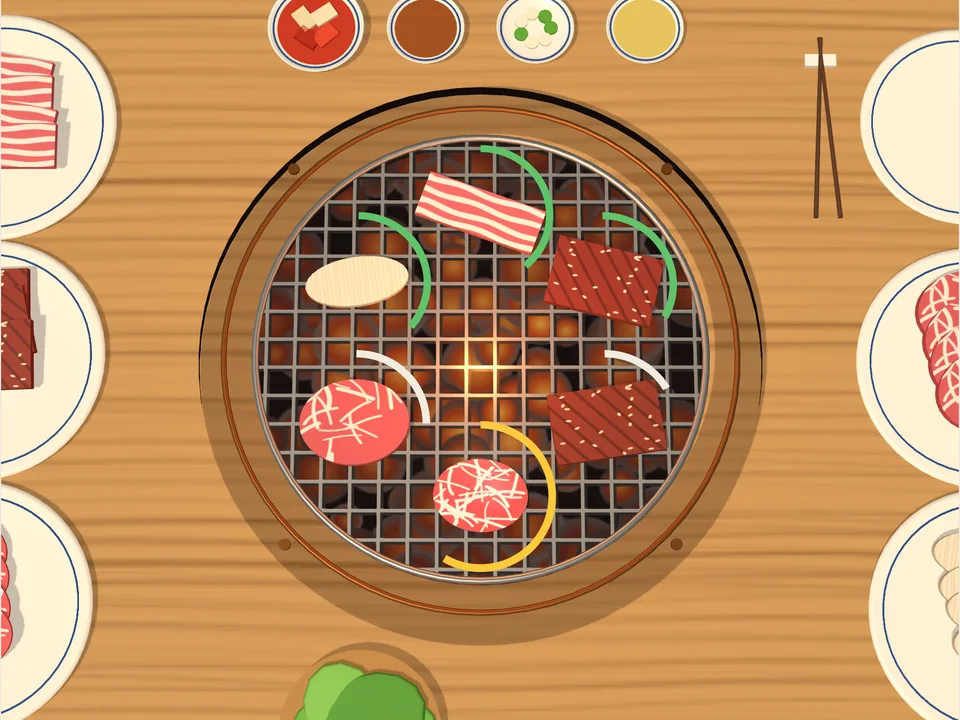
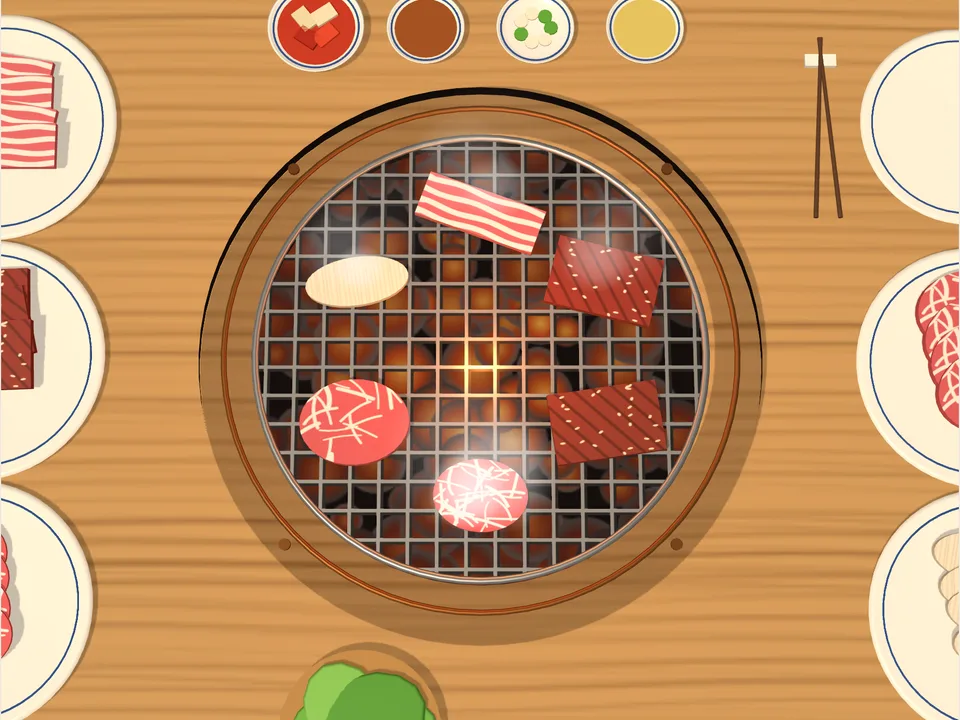
Meat grill: no gauge; smoke and colour tell how done a piece is; burnt pieces blackened
Claude-Session: https://claude.ai/code/session_01Uedx1uYtd54DPXXtQh77nN

diff --git a/src/games/grill/view.ts b/src/games/grill/view.ts
@@ -28,8 +28,7 @@ const SHAPES = [
 const PLACE = 300,
   PLATE = 400;
 /** How finely a side's colour follows its cooking. */
-const SHADES = 14,
-  ARCS = 36;
+const SHADES = 14;
 type Rgb = [number, number, number];
 const mix = (a: Rgb, b: Rgb, t: number): Rgb => [0, 1, 2].map((i) => Math.round(a[i] + (b[i] - a[i]) * Math.max(0, Math.min(1, t)))) as Rgb,
   css = ([r, g, b]: Rgb, alpha = 1) => `rgba(${r},${g},${b},${alpha})`,
@@ -142,9 +141,6 @@ export class GrillView extends TableView<State> {
   private skins = new Map<number, T.CanvasTexture>();
   private pieces: Model[] = [];
   private stock: T.Mesh[][] = [];
-  private gauges: T.Mesh[] = [];
-  private arcs: T.BufferGeometry[] = [];
-  private zones: T.MeshBasicMaterial[];
   private puffs: T.Mesh[] = [];
   private coals!: T.MeshBasicMaterial;
   private ember!: T.PointLight;
@@ -202,26 +198,19 @@ export class GrillView extends TableView<State> {
         }),
       );
     });
-    // A ring under each piece that fills as the side lying down cooks.
-    for (let k = 0; k <= ARCS; k++) this.arcs.push(this.own(new T.RingGeometry(0.8, 0.89, 44, 1, Math.PI / 2, -Math.max(0.001, (k / ARCS) * Math.PI * 2)).rotateX(-Math.PI / 2)));
-    this.zones = ["#f2ece0", "#5fc46a", "#ffc93a", "#ff8a2a", "#ff3b2e"].map((color) => this.own(new T.MeshBasicMaterial({ color, side: T.DoubleSide })));
     const smoke = document.createElement("canvas");
     smoke.width = smoke.height = 64;
     const pen = smoke.getContext("2d")!,
       fade = pen.createRadialGradient(32, 32, 2, 32, 32, 32);
-    fade.addColorStop(0, "rgba(255,255,255,0.9)");
+    fade.addColorStop(0, "rgba(255,255,255,1)");
+    fade.addColorStop(0.55, "rgba(255,255,255,0.7)");
     fade.addColorStop(1, "rgba(255,255,255,0)");
     pen.fillStyle = fade;
     pen.fillRect(0, 0, 64, 64);
     const haze = this.own(new T.CanvasTexture(smoke)),
       sheet = this.own(new T.PlaneGeometry(1, 1).rotateX(-Math.PI / 2));
     for (let slot = 0; slot < SLOTS; slot++) {
-      const gauge = new T.Mesh(this.arcs[0], this.zones[0]);
-      gauge.position.set(PLACES[slot][0], TOP + 0.03, PLACES[slot][1]);
-      gauge.visible = false;
-      this.gauges.push(gauge);
-      this.scene.add(gauge);
-      for (let k = 0; k < 2; k++) {
+      for (let k = 0; k < 3; k++) {
         const puff = new T.Mesh(sheet, this.own(new T.MeshBasicMaterial({ map: haze, transparent: true, depthWrite: false, opacity: 0 })));
         puff.visible = false;
         puff.renderOrder = 6;
@@ -490,15 +479,17 @@ export class GrillView extends TableView<State> {
     this.redraw();
   }
   /** Shows a model as a piece of a cut with its two sides done so far. */
-  private dress(model: Model, piece: Pick<Piece, "cut" | "done">) {
+  private dress(model: Model, piece: Pick<Piece, "cut" | "done"> & { burnt?: boolean }) {
+    // A burnt piece is blackened all over, whichever side lay down.
+    const done = piece.burnt ? piece.done.map((side) => Math.max(side, CHARRED + 0.15)) : piece.done;
     const shape = SHAPES[piece.cut],
       mesh = shape.round ? model.slice : model.slab;
     model.slab.visible = !shape.round;
     model.slice.visible = shape.round;
     mesh.scale.set(shape.w, shape.tall, shape.d);
-    model.under.map = this.skin(piece.cut, piece.done[0]);
-    model.upper.map = this.skin(piece.cut, piece.done[1]);
-    model.edge.color.set(css(cooked(...FLESH[piece.cut].lean, (piece.done[0] + piece.done[1]) / 2)).replace(/rgba\((\d+),(\d+),(\d+),1\)/, "rgb($1,$2,$3)"));
+    model.under.map = this.skin(piece.cut, done[0]);
+    model.upper.map = this.skin(piece.cut, done[1]);
+    model.edge.color.set(css(cooked(...FLESH[piece.cut].lean, (done[0] + done[1]) / 2)).replace(/rgba\((\d+),(\d+),(\d+),1\)/, "rgb($1,$2,$3)"));
   }
   /** Puts everything where the table has it. */
   private pose(now: number) {
@@ -509,11 +500,9 @@ export class GrillView extends TableView<State> {
     this.stock.forEach((meshes, cut) => meshes.forEach((mesh, i) => (mesh.visible = i < world.plates[cut] - (carried?.point === PLATE + cut ? 1 : 0))));
     world.slots.forEach((piece, slot) => {
       const model = this.pieces[slot],
-        gauge = this.gauges[slot],
         held = carried?.point === PLACE + slot;
       model.group.visible = !!piece;
-      gauge.visible = !!piece && !held;
-      for (const k of [0, 1]) this.puffs[slot * 2 + k].visible = false;
+      for (const k of [0, 1, 2]) this.puffs[slot * 3 + k].visible = false;
       if (!piece) return;
       this.dress(model, piece);
       const [x, z] = held ? [carried!.x, carried!.z] : PLACES[slot],
@@ -524,20 +513,19 @@ export class GrillView extends TableView<State> {
       model.group.position.set(x, TOP + 0.03 + tall / 2 + Math.sin(turning * Math.PI) * 0.55 + (held ? 0.7 : 0) + (1 - settle) * 0.4, z);
       model.group.rotation.set((piece.turned ? 0 : Math.PI) + Math.PI * turning, ((slot * 1.9) % 0.9) - 0.45, 0);
       const under = piece.done[down(piece)];
-      gauge.geometry = this.arcs[Math.max(1, Math.round(Math.min(1, under / BURNT) * ARCS))];
-      gauge.material = this.zones[under < RAW ? 0 : under < GOOD ? 1 : under <= OVER ? 2 : under < CHARRED ? 3 : 4];
-      // Smoke, thicker and darker the nearer it is to burning.
-      if (under > GOOD && !held) {
-        const thick = Math.min(1, (under - GOOD) / (BURNT - GOOD));
-        for (const k of [0, 1]) {
-          const puff = this.puffs[slot * 2 + k],
-            p = (now / 1100 + k / 2 + slot * 0.37) % 1,
+      // Nothing but the smoke tells how the side lying down is doing: a thin wisp once it is cooked through,
+      // full white smoke while it is just right, grey when it is overdone, dark and thick before it burns.
+      if (under >= RAW && !held) {
+        const thick = under < GOOD ? 0.4 : under <= OVER ? 0.7 : under < CHARRED ? 0.75 : 0.95;
+        for (const k of [0, 1, 2]) {
+          const puff = this.puffs[slot * 3 + k],
+            p = (now / 1300 + k / 3 + slot * 0.37) % 1,
             paint = puff.material as T.MeshBasicMaterial;
           puff.visible = true;
           puff.position.set(x + Math.sin(p * 5 + k * 2) * 0.2, TOP + 0.5 + p, z - p * 0.5);
-          puff.scale.setScalar(0.5 + p * 1.1);
-          paint.opacity = (1 - p) * (0.18 + thick * 0.4);
-          paint.color.set(under > OVER ? "#5a5a60" : "#ffffff");
+          puff.scale.setScalar((under < GOOD ? 0.5 : 0.9) + p * 1.4);
+          paint.opacity = (1 - p) * thick;
+          paint.color.set(under <= OVER ? "#ffffff" : under < CHARRED ? "#9a9aa0" : "#2c2c30");
         }
       }
     });

diff --git a/src/games/grill/config.ts b/src/games/grill/config.ts
@@ -30,10 +30,10 @@ export const grillConfig: PointConfig<State> = {
   rules:
     part("기본 규칙", steps(`화로 양옆에 고기 접시가 ${CUTS.length}개 있고, 접시마다 ${PORTION}점씩 놓여 있습니다.`, "<b>접시를 누르면</b> 고기 한 점이 불판의 빈자리에 올라갑니다. 불판에는 일곱 점까지 올릴 수 있습니다.", "고기는 <b>불에 닿은 아래쪽 면</b>만 익습니다. <b>고기를 누르면 뒤집힙니다</b>. 몇 번이든 뒤집을 수 있습니다.", "다 익은 고기는 <b>불판 밖으로 끌어내면</b> 먹습니다. 양쪽이 잘 익었을수록 점수가 높습니다.", "너무 오래 두면 <b>탑니다</b>. 탄 고기는 그 자리를 차지한 채 남으니 끌어내 버립니다.", `<b>${SECONDS}초</b>가 지나거나 접시와 불판이 모두 비면 식사가 끝납니다. 시간이 끝났을 때 불판에 남은 고기는 점수가 없습니다.`)) +
     part("올리고 뒤집고 먹기", table(["올리기", "접시를 누르면 빈자리에 올라갑니다. 접시에서 <b>끌어다</b> 원하는 자리에 놓을 수도 있습니다."], ["뒤집기", "불판 위의 고기를 누릅니다."], ["먹기", "고기를 불판 밖으로 끌어냅니다. 고기를 <b>길게 눌렀다 떼도</b> 됩니다."], ["자리 옮기기", "불판 위에서 빈자리로 끌면 그 자리로 옮겨집니다."], ["키보드", "← → 로 접시와 자리를 차례로 고릅니다. Enter는 올리기·뒤집기, 스페이스(또는 E)는 먹기입니다."])) +
-    part("익은 정도와 점수", table(["고기 밑의 고리", "아래쪽 면이 얼마나 익었는지 보여 줍니다. 뒤집으면 그 면의 색으로도 알 수 있습니다."], ["흰 고리 · 덜 익음", "한 면이라도 덜 익은 채 먹으면 0점입니다."], ["초록 고리 · 익음", "그 면 1점."], ["금색 고리 · 딱 좋음", "그 면 3점. 양쪽 다 딱 좋으면 한 점에 6점입니다."], ["주황 고리 · 너무 익음", "그 면 1점. 연기가 짙어집니다."], ["빨간 고리 · 타기 직전", "그 면 0점. 고리가 다 차면 탑니다."])) +
+    part("익은 정도와 점수", table(["알아보는 법", "눈금은 없습니다. 아래쪽 면은 <b>연기</b>로, 위쪽 면은 <b>고기의 색</b>으로 알아봅니다. 뒤집으면 방금까지 익던 면이 위로 올라와 보입니다."], ["연기 없음 · 덜 익음", "한 면이라도 덜 익은 채 먹으면 0점입니다."], ["옅은 연기 · 익음", "그 면 1점."], ["흰 연기 · 딱 좋음", "그 면 3점. 양쪽 다 딱 좋으면 한 점에 6점입니다."], ["회색 연기 · 너무 익음", "그 면 1점."], ["검은 연기 · 타기 직전", "그 면 0점. 그대로 두면 탑니다."])) +
     part("고기와 불", table(...CUTS.map((cut): [string, string] => [cut.name, `한 면이 익는 데 약 ${cut.seconds}초`]), ["가운데 자리", "숯이 가장 센 곳이라 다른 자리보다 빨리 익습니다. 접시를 눌러 올리면 가장자리부터 채워집니다."])) +
     part("일시정지", table(["멈추기", "판 오른쪽 위의 <b>❙❙</b> 버튼이나 키보드 P를 누르면 멈춥니다."], ["이어 하기", "같은 자리의 <b>▶</b> 버튼이나 P를 다시 누릅니다."], ["저절로 멈출 때", "게임 방법이나 설정 창이 열려 있는 동안에도 멈춥니다."])) +
-    part("처음이라면", notes("한 점씩 구우면 시간이 모자랍니다. <b>서너 점을 함께</b> 올려 두고 돌아가며 뒤집습니다.", "<b>차돌박이</b>는 금방 익고 <b>목살</b>은 오래 걸립니다. 오래 걸리는 것을 먼저 올립니다.", "고리가 금색일 때 뒤집고, 다시 금색이 되면 끌어냅니다.")),
+    part("처음이라면", notes("한 점씩 구우면 시간이 모자랍니다. <b>서너 점을 함께</b> 올려 두고 돌아가며 뒤집습니다.", "<b>차돌박이</b>는 금방 익고 <b>목살</b>은 오래 걸립니다. 오래 걸리는 것을 먼저 올립니다.", "<b>흰 연기</b>가 피어오르면 뒤집고, 다시 흰 연기가 피어오르면 끌어냅니다.")),
   help: "마우스·터치: 접시를 눌러 올리고, 고기를 눌러 뒤집고, 불판 밖으로 끌어내 먹습니다<br>키보드: ← → 로 고르고 Enter(올리기·뒤집기), 스페이스(먹기)",
   sides: ["나", ""],
   startWord: "식탁에 앉기",

diff --git a/AGENTS.md b/AGENTS.md
@@ -107,5 +107,5 @@
 - Minesweeper lays its mines in `play`, on the first square opened, clear of it and of the squares round it, from the `random` passed in; `FLAG` switches between opening and flagging without the ply counting (`tools`, the F key through `keyMove`); a number with its flags in place opens the rest round it. It is `noUndo`. Nothing about where the mines lie goes into the DOM.
 - Fruit merge runs in real time (`live`, `pausable`): `fruit/sim.ts` steps the box in fixed slices free of Three.js and DOM (places corrected directly, speeds following from them, so a heap rests), and the view reports only `DROP`, `MERGE + kind` and `OVER` through `onMove`; `rules.ts` knows nothing but the score. A fruit counts against the line only after `GRACE` seconds.
 - Lights off, minesweeper and fruit merge are drawn flat, as 2D pictures (the user asked, after seeing them in 3D): their views extend `FlatView` (`src/games/flat/view.ts`: one canvas, the frame loop, the pointer in canvas pixels, `data-ready`), without Three.js; do not make them three-dimensional again. A new flat game should extend it rather than copy the falling blocks view. Each keeps the top of its picture clear of the status line and the bottom of the table's small print; minesweeper also keeps clear of the flag button in the lower right corner. Fruit are pictures painted once a kind (`picture` in `fruit/view.ts`) and drawn turned by how far they have rolled.
-- Meat grill (`grill/`, titled 고기 굽기) is a game for one in real time, `live` and `pausable`. The user first got a design of our own (pieces arriving by themselves, drawn flat), then sent a picture of another game's grill table and asked for the graphics and the game to be like it: what was taken is the kind of game (plates of raw meat round a brazier, lay a piece, turn it as often as wished, take it off to eat) and a 3D table seen from above; the table itself is our own (a Korean grill table: round china plates with a blue line, pork belly, marinated rib, brisket, neck and king oyster mushroom, side dishes, a basket of lettuce), not that picture's. Keep it 3D on `TableView` and do not copy that game's look. `grill/sim.ts` steps seven places over the coals (the middle hottest) free of DOM: `lay` (from a plate, to the first free place or a named one), `flip`, `shift`, `take` (eaten for 0 to 6, or thrown away if burnt; a burnt piece stays in its place until then); the view reports `TICK` each second, `LAY`, `FLIP`, `EAT + points`, `BURN` and `DONE`, and the meal ends after `SECONDS` or when plates and grill are empty (`winner` 0). The ring under a piece shows how done its under side is; each side's paint is made once a shade (`skin`). The table's points (`PLACE + slot`, `PLATE + cut`) are kept clear of the rules' own move numbers, because an unclaimed tap reaches the screen as a pick. The keyboard walks the plates and then the places inside the view.
+- Meat grill (`grill/`, titled 고기 굽기) is a game for one in real time, `live` and `pausable`. The user first got a design of our own (pieces arriving by themselves, drawn flat), then sent a picture of another game's grill table and asked for the graphics and the game to be like it: what was taken is the kind of game (plates of raw meat round a brazier, lay a piece, turn it as often as wished, take it off to eat) and a 3D table seen from above; the table itself is our own (a Korean grill table: round china plates with a blue line, pork belly, marinated rib, brisket, neck and king oyster mushroom, side dishes, a basket of lettuce), not that picture's. Keep it 3D on `TableView` and do not copy that game's look. `grill/sim.ts` steps seven places over the coals (the middle hottest) free of DOM: `lay` (from a plate, to the first free place or a named one), `flip`, `shift`, `take` (eaten for 0 to 6, or thrown away if burnt; a burnt piece stays in its place until then); the view reports `TICK` each second, `LAY`, `FLIP`, `EAT + points`, `BURN` and `DONE`, and the meal ends after `SECONDS` or when plates and grill are empty (`winner` 0). There is no gauge: the user asked for the ring that showed how done the under side was to go, so do not bring it back. The under side is told only by its smoke (a thin wisp once cooked through, full white while just right, grey when overdone, dark before it burns) and the upper side by its colour; each side's paint is made once a shade (`skin`). The table's points (`PLACE + slot`, `PLATE + cut`) are kept clear of the rules' own move numbers, because an unclaimed tap reaches the screen as a pick. The keyboard walks the plates and then the places inside the view.
 - A view that plays its table in real time must tell a new game by the count of moves going back to nothing (the state before had `ply > 0`, the new one has 0), never by what its own world holds: the screen shows the present state once more before each move it is told of, so a view that emptied its world whenever `ply` was 0 and the world was not fresh lost the first move of every game (the first piece laid on the grill, the first fruit dropped). The grill's browser test lays two pieces first and counts both for this.

diff --git a/README.md b/README.md
@@ -348,7 +348,7 @@ CHROMIUM_PATH=/usr/bin/chromium npm run test:e2e
 - **불 끄기 (Lights Off)**: 3×3부터 7×7까지의 등불 판. 누르면 그 불과 상하좌우가 뒤집힙니다. 문제는 꺼진 판에서 무작위로 눌러 만들어 반드시 풀리고, 최소 횟수는 GF(2) 소거로 구합니다(`solve` in `lights/rules.ts`). '라이츠 아웃'으로 알려진 퍼즐이며 이름은 일반 이름을 씁니다. 퍼즐 판을 씁니다.
 - **지뢰찾기 (Minesweeper)**: 쉬움 8×8(지뢰 10), 보통 12×10(20), 어려움 18×12(40). 지뢰는 첫 칸을 연 뒤 그 칸과 둘레를 피해 묻힙니다. 깃발 꽂기 버튼(F)으로 깃발을 꽂고, 깃발 수가 맞는 숫자를 누르면 둘레가 한꺼번에 열립니다. 무르기는 없습니다.
 - **과일 합치기 (Fruit Merge)**: 유리 상자에 과일을 떨어뜨려 같은 과일끼리 합칩니다(블루베리 → 체리 → 라임 → 자두 → 귤 → 사과 → 자몽 → 코코넛 → 멜론 → 수박). 실시간이며 일시정지할 수 있습니다. 상자는 `fruit/sim.ts`가 고정 간격으로 계산하고(Three.js·DOM 없음), 화면은 떨어뜨림·합쳐짐·넘침만 수로 보고합니다. '수박 게임'으로 알려진 놀이이며 과일의 종류·순서·그림은 따로 만들었습니다.
-- **고기 굽기 (Meat Grill)**: 숯불 화로를 가운데 둔 고깃집 식탁을 위에서 본 3D 화면입니다. 양옆 접시 다섯 개(삼겹살·양념갈비·차돌박이·목살·새송이버섯, 다섯 점씩)에서 고기를 불판 일곱 자리에 올리고, 눌러서 몇 번이든 뒤집고, 불판 밖으로 끌어내 먹습니다. 아래쪽 면만 익으며 고기 밑의 고리가 익은 정도를 보여 줍니다(초록 1점, 금색 3점, 양쪽 다 금색이면 6점). 탄 고기는 자리를 차지한 채 남습니다. 120초가 지나거나 접시와 불판이 비면 끝납니다. 실시간이며 일시정지할 수 있습니다. 모두 46종입니다.
+- **고기 굽기 (Meat Grill)**: 숯불 화로를 가운데 둔 고깃집 식탁을 위에서 본 3D 화면입니다. 양옆 접시 다섯 개(삼겹살·양념갈비·차돌박이·목살·새송이버섯, 다섯 점씩)에서 고기를 불판 일곱 자리에 올리고, 눌러서 몇 번이든 뒤집고, 불판 밖으로 끌어내 먹습니다. 아래쪽 면만 익으며, 눈금 없이 연기와 고기 색으로 익은 정도를 알아봅니다(옅은 연기 1점, 흰 연기 3점, 양쪽 다 딱 좋으면 6점). 탄 고기는 자리를 차지한 채 남습니다. 120초가 지나거나 접시와 불판이 비면 끝납니다. 실시간이며 일시정지할 수 있습니다. 모두 46종입니다.
 
 - **물 나누기 (Water Pouring)**: 실험실의 눈금 없는 비커 세 개. 부으면 비커를 들어 기울여 붓는 모습과 물줄기가 보입니다. 가장 큰 그릇만 가득 차 있고, 부으면 붓는 쪽이 비거나 받는 쪽이 찰 때까지 옮겨집니다. 목표는 둘 중 하나가 무작위로 정해집니다: 큰 그릇 둘에 **절반씩 나누기**, 또는 **어느 그릇에든 정해진 양 만들기**. 그릇의 크기도 할 때마다 무작위이고, 탐색으로 풀리는 문제만 냅니다(`createGame` in `pour/rules.ts`). **최소 횟수**를 함께 구해 오른쪽 판에 부은 횟수와 나란히 보여 주고, 성공하면 견주어 알려 줍니다. 난이도는 최소 횟수로 나뉩니다(쉬움 2–4, 보통 5–7, 어려움 8번 이상). 구슬치기와 같은 퍼즐 판(난이도·힌트·무르기·처음부터·다른 퍼즐·다음 스테이지)을 씁니다.
 - **강 건너기 (River Crossing)**: 강가의 일행을 작은 배로 모두 건너편에 옮깁니다. 사람과 동물은 코드로 빚은 모형입니다. 스테이지 넷: **농부와 짐**(늑대·염소·양배추, 여우·닭·곡식, 고양이·쥐·치즈 가운데 무작위; 농부만 노를 젓습니다), **양과 늑대**(셋씩, 배에 둘), **질투하는 부부**(세 쌍, 배에 둘), **큰 무리**(양·늑대 넷씩이나 다섯씩 또는 부부 네 쌍, 배에 셋). 탈 이를 눌러 태우고 배를 누르면 건넙니다. 규칙을 어기는 수를 두면 무엇이 잘못됐는지와 함께 **실패**로 보여 주고, 무르기나 처음부터로 이어서 합니다. 최소 횟수는 탐색(`solve` in `river/rules.ts`)으로 구해 건넌 횟수와 견줍니다. 일행은 무리의 크기에 맞춰 줄을 지어 서므로(작은 무리는 크게, 큰 무리는 작게) 서로 겹치지 않습니다. 강물이 흐르고, 배 둘레에 물결이 퍼지고, 꼬리가 흔들리며, 실패하면 문제가 된 이들 머리 위에 빨간 느낌표가 뜹니다. 구슬치기와 같은 퍼즐 판을 씁니다.

diff --git a/ROADMAP.md b/ROADMAP.md
@@ -222,6 +222,7 @@
 - [x] 불 끄기·지뢰찾기·과일 합치기를 2D 그림으로
 - [x] 고기 굽기(뒤집고 건지기, 탄 고기 세 점이면 끝) — 46종
 - [x] 고기 굽기를 식탁 방식으로(접시에서 올리고, 뒤집고, 끌어내 먹기; 3D 식탁, 120초)
+- [x] 고기 굽기의 게이지를 없애고 연기와 고기 색으로 익은 정도를 알림
 - [x] 구슬치기: 들어올 때 난이도 선택, 오른쪽 판(난이도·힌트·무르기·처음부터·다른 퍼즐), 결과 창 대신 다음 스테이지 / 결과 창 글씨를 간략하고 크게
 - [x] 블록 내리기·벽돌깨기·테이블 사커 일시정지 / 벽돌깨기 남은 공을 담는 그릇 / 페그 솔리테어 스테이지를 그림 창에서 고르기
 - [x] 블록 내리기 2D 그림 / 벽돌깨기 10단계(쇠·구리·폭탄·강철·움직이는 줄)와 떨어지는 아이템 / 페그 솔리테어 스테이지 여섯 개와 청화백자 구슬 / 2048 점수판
